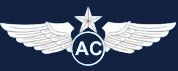
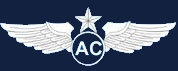
Add missing authorized badges and repair fabric artwork

diff --git a/index.html b/index.html
@@ -5694,8 +5694,6 @@ const CAPUB_ADDITIONAL_SPECIALTY_BADGE_IDS = [
   'aerospace_education_senior_badge','aerospace_education_master_badge',
   'finance_senior_badge','finance_master_badge',
   'cadet_programs_technician_badge','cadet_programs_senior_badge','cadet_programs_master_badge',
-  'command_technician_badge','command_senior_badge','command_master_badge',
-  'health_services_technician_badge','health_services_senior_badge','health_services_master_badge',
   'historian_senior_badge','historian_master_badge',
   'information_technology_senior_badge','information_technology_master_badge',
   'logistics_technician_badge','logistics_senior_badge','logistics_master_badge',
@@ -5773,7 +5771,7 @@ const BADGE_CATEGORIES = [
     'information_technology_technician_badge','cyber_badges','stem_badges'
   ]},
   { key:'Professional Development / Cadet Programs', ids:[
-    'volunteer_university_instructor_badge','cadet_programs_badge',
+    'volunteer_university_instructor_badge','cadet_programs_technician_badge','cadet_programs_senior_badge','cadet_programs_master_badge',
     'administration_technician_badge','aerospace_education_technician_badge','aerospace_education_senior_badge','aerospace_education_master_badge','finance_technician_badge'
   ]},
   { key:'Command Insignia', ids:[
@@ -5799,7 +5797,7 @@ const BADGE_CATEGORIES = [
     'information_technology_senior_badge','information_technology_master_badge',
     'historian_senior_badge','historian_master_badge',
     'cdi_technician_badge','cdi_senior_badge','cdi_master_badge',
-    'drug_demand_reduction_basic_badge'
+    'drug_demand_reduction_technician_badge','drug_demand_reduction_senior_badge','drug_demand_reduction_master_badge'
   ]},
   { key:'Other', ids:[
     'model_rocketry_badge','nra_marksman_badge'
@@ -5825,7 +5823,25 @@ function isBadgeEligibleForMembership(id, membership = State.membership){
 }
 
 function getEligibleBadgeIdsForMembership(membership = State.membership){
-  return badgeList.filter(id => isBadgeEligibleForMembership(id, membership));
+  const legacyAliases = new Set(['cadet_programs_badge','drug_demand_reduction_basic_badge']);
+  return badgeList.filter(id => !legacyAliases.has(id) && isBadgeEligibleForMembership(id, membership));
+}
+
+const BADGE_DISPLAY_NAMES = Object.freeze({
+  uas_pilot_basic_badge: 'sUAS Pilot Badge',
+  uas_pilot_senior_badge: 'Senior sUAS Pilot Badge',
+  uas_pilot_master_badge: 'Command sUAS Pilot Badge',
+  cadet_programs_technician_badge: 'Cadet Programs Technician Badge',
+  cadet_programs_senior_badge: 'Cadet Programs Senior Badge',
+  cadet_programs_master_badge: 'Cadet Programs Master Badge',
+  drug_demand_reduction_basic_badge: 'Drug Demand Reduction Basic Badge',
+  drug_demand_reduction_technician_badge: 'Drug Demand Reduction Technician Badge',
+  drug_demand_reduction_senior_badge: 'Drug Demand Reduction Senior Badge',
+  drug_demand_reduction_master_badge: 'Drug Demand Reduction Master Badge'
+});
+function getBadgeDisplayName(id){
+  return BADGE_DISPLAY_NAMES[id]
+    || String(id || '').replace(/_/g,' ').replace(/\b\w/g,c=>c.toUpperCase());
 }
 
 const SENIOR_SPECIALTY_TRACK_GROUP_IDS = [
@@ -5837,9 +5853,7 @@ const SENIOR_SPECIALTY_TRACK_GROUP_IDS = [
   'aerospace_education_technician_badge','aerospace_education_senior_badge','aerospace_education_master_badge',
   'finance_technician_badge','finance_senior_badge','finance_master_badge',
   'volunteer_university_instructor_badge',
-  'cadet_programs_badge','cadet_programs_technician_badge','cadet_programs_senior_badge','cadet_programs_master_badge',
-  'command_technician_badge','command_senior_badge','command_master_badge',
-  'health_services_technician_badge','health_services_senior_badge','health_services_master_badge',
+  'cadet_programs_technician_badge','cadet_programs_senior_badge','cadet_programs_master_badge',
   'logistics_technician_badge','logistics_senior_badge','logistics_master_badge',
   'operations_technician_badge','operations_senior_badge','operations_master_badge',
   'personnel_technician_badge','personnel_senior_badge','personnel_master_badge',
@@ -5850,7 +5864,7 @@ const SENIOR_SPECIALTY_TRACK_GROUP_IDS = [
   'inspector_general_technician_badge','inspector_general_senior_badge','inspector_general_master_badge',
   'stan_eval_tech_badge','stan_eval_senior_badge','stan_eval_master_badge',
   'cdi_technician_badge','cdi_senior_badge','cdi_master_badge',
-  'drug_demand_reduction_basic_badge'
+  'drug_demand_reduction_technician_badge','drug_demand_reduction_senior_badge','drug_demand_reduction_master_badge'
 ];
 
 const CADET_SPECIALTY_TRACK_GROUP_IDS = [
@@ -8123,7 +8137,7 @@ function buildBadgeGallery(){
     const tile = document.createElement('div');
     tile.className = 'galleryTile';
 
-    const title = id.replace(/_/g,' ').replace(/\b\w/g,c=>c.toUpperCase());
+    const title = getBadgeDisplayName(id);
     const rareCadetTag = (State.membership === 'cadet' && rareCadetBadges.has(id)) ? ' <span class="validationBadge">Rare Cadet Eligibility</span>' : '';
     tile.innerHTML = `
       <img src="${ASSET(getBadgeAssetPath(id))}" alt="${title}">
@@ -8821,7 +8835,7 @@ function placeBadgeSlotAnchored(id){
 
   clone.dataset.tooltipTitle = (id==='squadron_commander_badge' && State.commandInsignia?.graduatedCommander)
     ? 'GRADUATED COMMANDER INSIGNIA'
-    : id.replace(/_/g,' ').toUpperCase();
+    : getBadgeDisplayName(id).toUpperCase();
   clone.dataset.tooltipReg = `Badge slot: ${slot}`;
   clone.dataset.tooltipWhy = (id==='squadron_commander_badge')
     ? (State.commandInsignia?.graduatedCommander ? 'Past/graduated command insignia renders under the name tag (UN).' : 'Current command insignia renders over the name tag (ON).')
@@ -11517,14 +11531,9 @@ const CAPUB_SPECIALTY_TRACK_TO_BADGE = {
     MASTER: "aerospace_education_master_badge"
   },
   "CADET PROGRAMS": {
-    TECHNICIAN: "cadet_programs_badge",
-    SENIOR: "cadet_programs_badge",
-    MASTER: "cadet_programs_badge"
-  },
-  "COMMAND": {
-    TECHNICIAN: "command_technician_badge",
-    SENIOR: "command_senior_badge",
-    MASTER: "command_master_badge"
+    TECHNICIAN: "cadet_programs_technician_badge",
+    SENIOR: "cadet_programs_senior_badge",
+    MASTER: "cadet_programs_master_badge"
   },
   "COMMUNICATIONS": {
     TECHNICIAN: "communications_technician_badge",
@@ -11540,11 +11549,6 @@ const CAPUB_SPECIALTY_TRACK_TO_BADGE = {
     TECHNICIAN: "finance_technician_badge",
     SENIOR: "finance_senior_badge",
     MASTER: "finance_master_badge"
-  },
-  "HEALTH SERVICES": {
-    TECHNICIAN: "health_services_technician_badge",
-    SENIOR: "health_services_senior_badge",
-    MASTER: "health_services_master_badge"
   },
   "HISTORIAN": {
     TECHNICIAN: "historian_technicianIbadge",
@@ -11607,14 +11611,14 @@ const CAPUB_SPECIALTY_TRACK_TO_BADGE = {
     MASTER: "inspector_general_master_badge"
   },
   "DRUG DEMAND REDUCTION": {
-    TECHNICIAN: "drug_demand_reduction_basic_badge",
-    SENIOR: "drug_demand_reduction_basic_badge",
-    MASTER: "drug_demand_reduction_basic_badge"
+    TECHNICIAN: "drug_demand_reduction_technician_badge",
+    SENIOR: "drug_demand_reduction_senior_badge",
+    MASTER: "drug_demand_reduction_master_badge"
   },
   "DDR": {
-    TECHNICIAN: "drug_demand_reduction_basic_badge",
-    SENIOR: "drug_demand_reduction_basic_badge",
-    MASTER: "drug_demand_reduction_basic_badge"
+    TECHNICIAN: "drug_demand_reduction_technician_badge",
+    SENIOR: "drug_demand_reduction_senior_badge",
+    MASTER: "drug_demand_reduction_master_badge"
   },
   "STANDARDIZATION AND EVALUATION": {
     TECHNICIAN: "stan_eval_tech_badge",
@@ -13521,7 +13525,7 @@ try{ wireShoulderCordControl(); syncShoulderCordControl(); fullRender(); }catch(
     const CAPUB_INCIDENT_COMMANDER_BADGE_IDS = new Set([
       'basic_incident_commander_badge','incident_commander_1_badge','incident_commander_2_badge'
     ]);
-    const CAPUB_UTILITY_BADGE_PREVIEW_REVISION = 'capr-fabric-20260806';
+    const CAPUB_UTILITY_BADGE_PREVIEW_REVISION = 'capr-fabric-20260822-v2';
 
     function capubUtilityBadgePreviewUrl(id){
       return `${ASSET(`badges/utility/${id}.png`)}?v=${CAPUB_UTILITY_BADGE_PREVIEW_REVISION}`;
